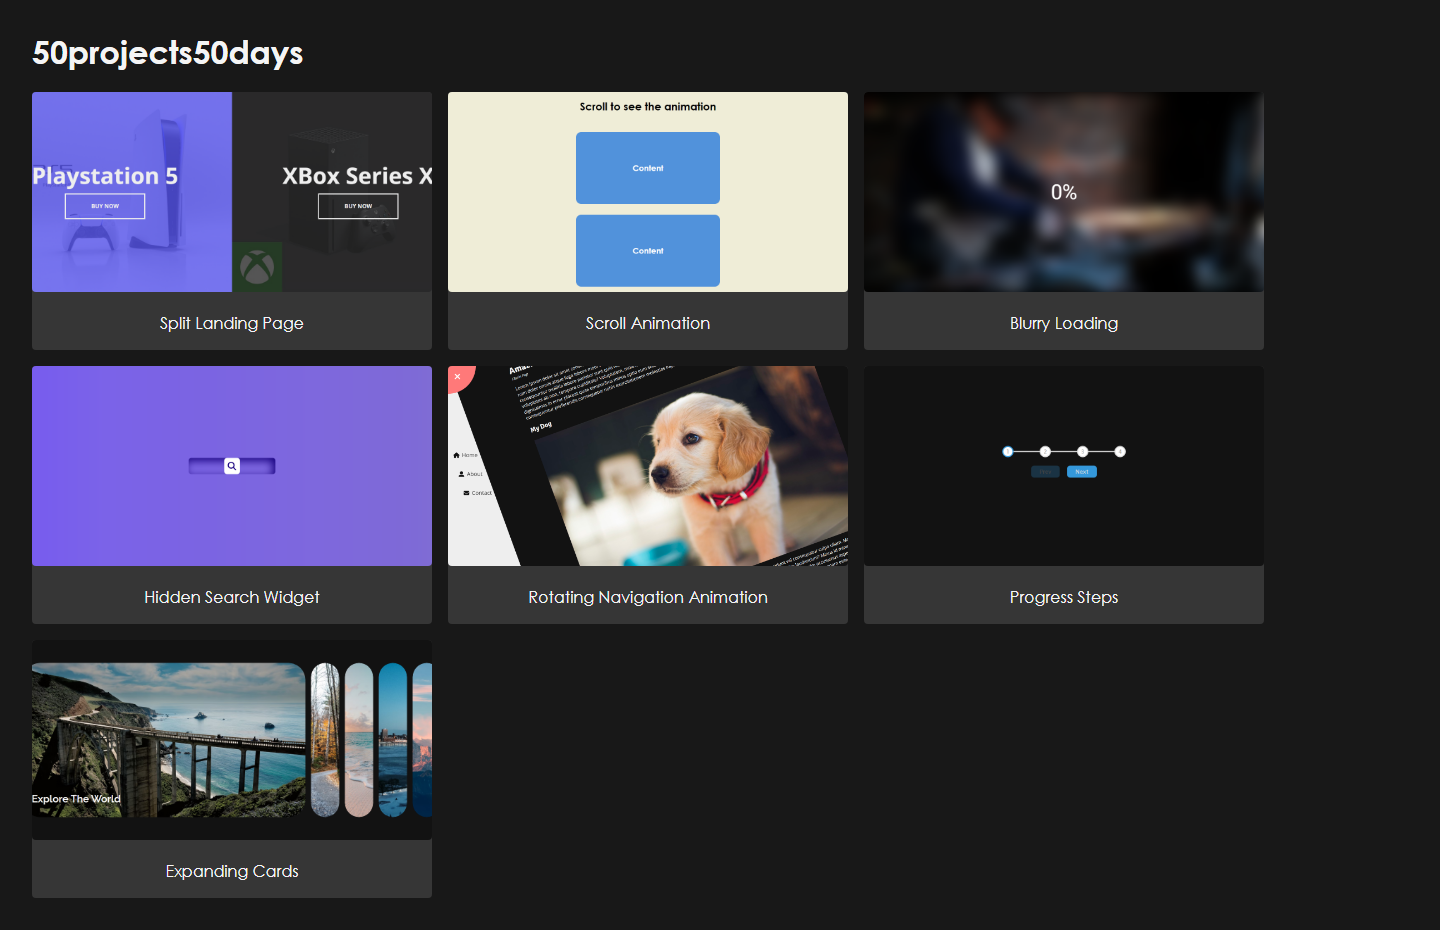
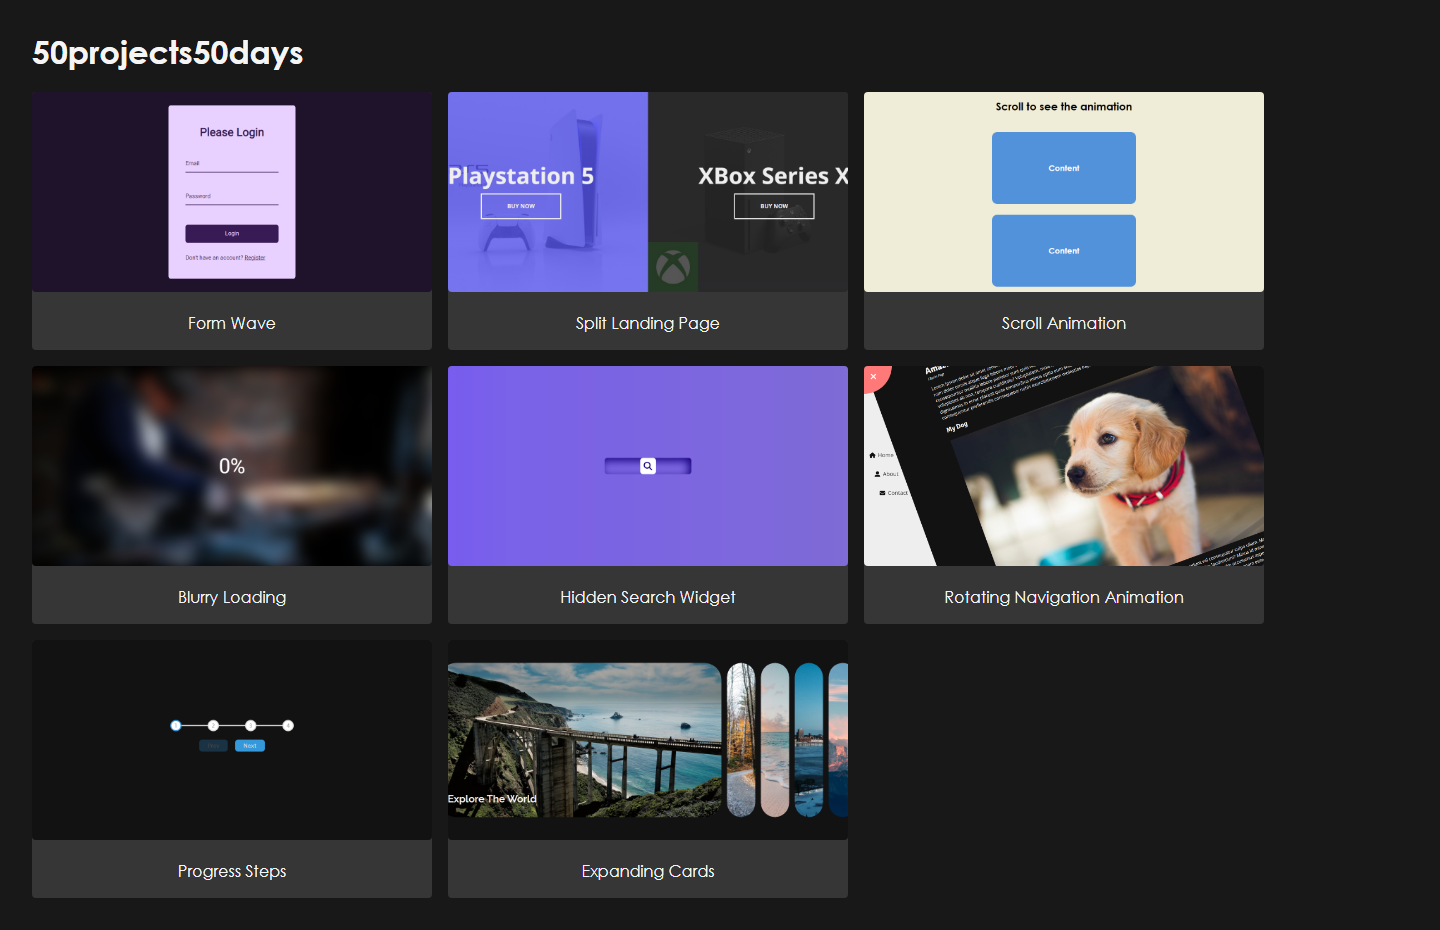
add form-input-wave

diff --git a/index.html b/index.html
@@ -95,6 +95,19 @@
             </figure> -->
             <figure>
                 <a
+                    href="https://rehberbey.github.io/50projects50days/form-input-wave/views/index.html"
+                    target="_blank"
+                    rel="noopener noreferrer"
+                >
+                    <img
+                        src="./form-input-wave/design/desktop-dark.png"
+                        alt="Form Wave"
+                    />
+                    <figcaption>Form Wave</figcaption>
+                </a>
+            </figure>
+            <figure>
+                <a
                     href="https://rehberbey.github.io/50projects50days/split-landing-page/views/index.html"
                     target="_blank"
                     rel="noopener noreferrer"

diff --git a/.github/README.md b/.github/README.md
@@ -15,7 +15,7 @@ Bu çalışmalar, kendimi geliştirmeme ne kadar yarıyorsa; bir o kadar da beni
 | 05  | [Blurry Loading](https://github.com/rehberbey/50projects50days/tree/master/blurry-loading)                                | [Live Demo](https://rehberbey.github.io/50projects50days/blurry-loading/views/index.html)               |
 | 06  | [Scroll Animation](https://github.com/rehberbey/50projects50days/tree/master/scroll-animation)                            | [Live Demo](https://rehberbey.github.io/50projects50days/scroll-animation/views/index.html)             |
 | 07  | [Split Landing Page](https://github.com/rehberbey/50projects50days/tree/master/split-landing-page)                        | [Live Demo](https://rehberbey.github.io/50projects50days/split-landing-page/views/index.html)           |
-| 08  | ❌ [Form Wave](https://github.com/rehberbey/50projects50days/tree/master/form-input-wave)                                 | [Live Demo](https://rehberbey.github.io/50projects50days/form-input-wave/views/index.html)              |
+| 08  | [Form Wave](https://github.com/rehberbey/50projects50days/tree/master/form-input-wave)                                    | [Live Demo](https://rehberbey.github.io/50projects50days/form-input-wave/views/index.html)              |
 | 09  | ❌ [Sound Board](https://github.com/rehberbey/50projects50days/tree/master/sound-board)                                   | [Live Demo](https://rehberbey.github.io/50projects50days/sound-board/views/index.html)                  |
 | 10  | ❌ [Dad Jokes](https://github.com/rehberbey/50projects50days/tree/master/dad-jokes)                                       | [Live Demo](https://rehberbey.github.io/50projects50days/dad-jokes/views/index.html)                    |
 | 11  | ❌ [Event Keycodes](https://github.com/rehberbey/50projects50days/tree/master/event-keycodes)                             | [Live Demo](https://rehberbey.github.io/50projects50days/event-keycodes/views/index.html)               |
